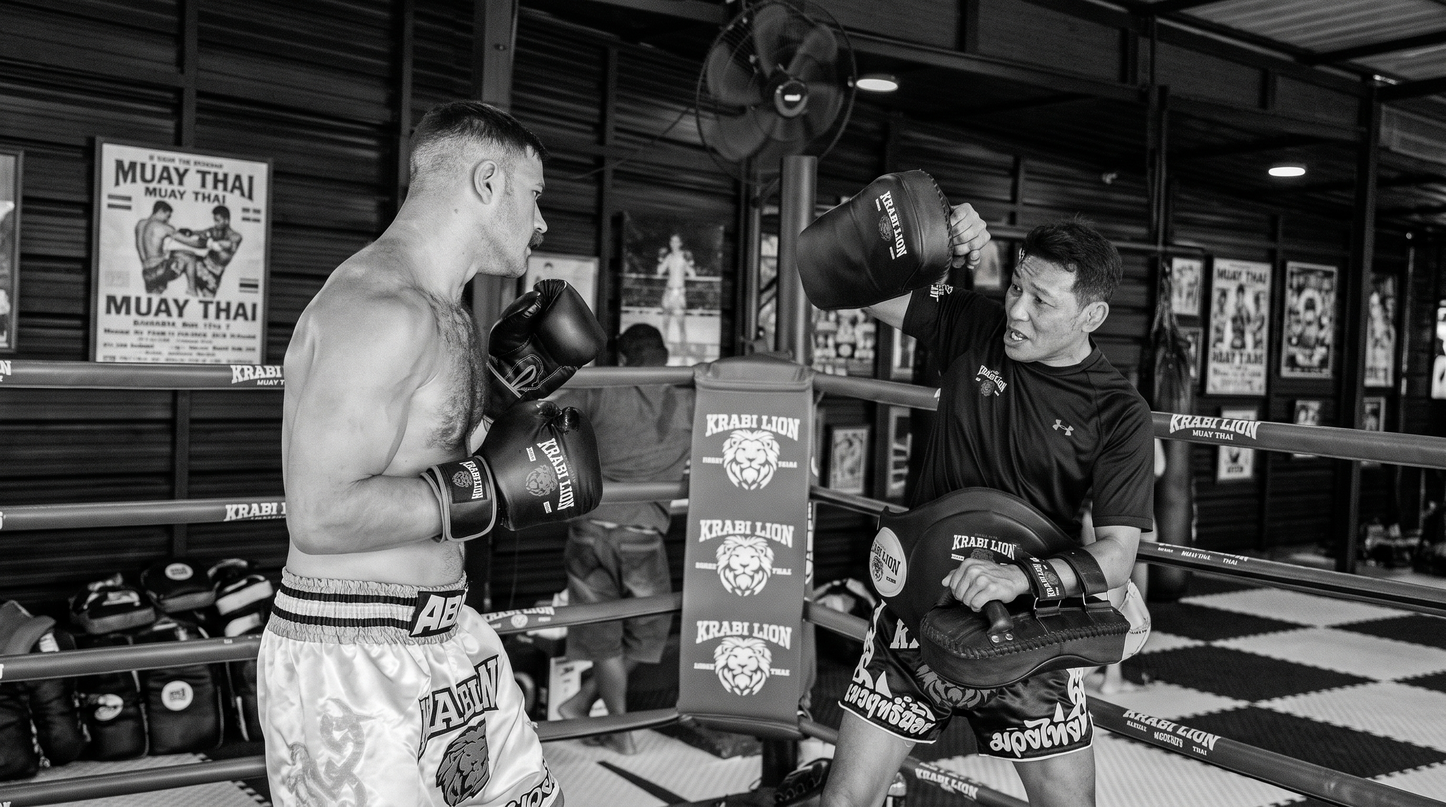
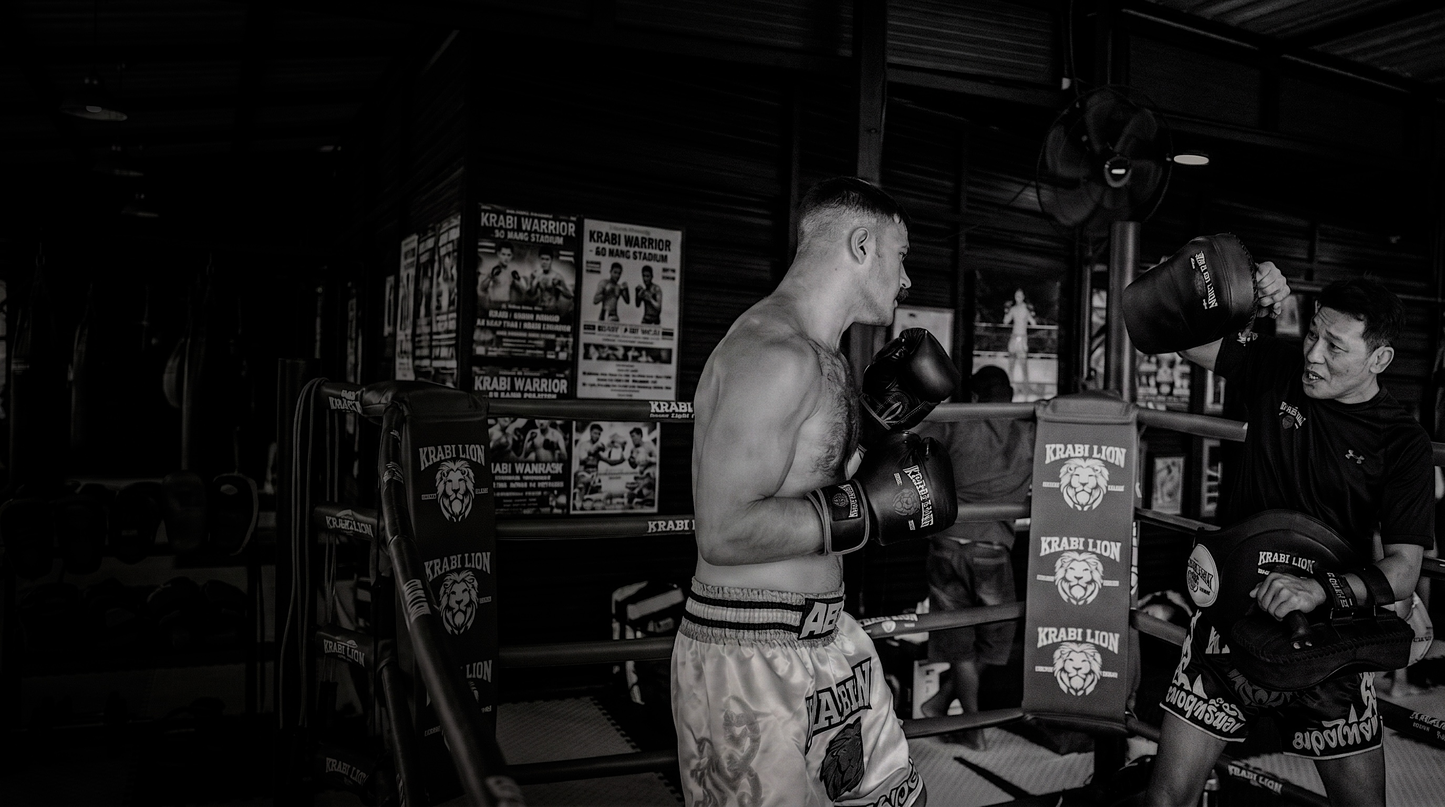
revert: drop hero collage layers; plain hero with Leo's latest edit

diff --git a/index.html b/index.html
@@ -400,29 +400,7 @@ a { color: inherit; }
   isolation: isolate;
 }
 .hero-media { position: absolute; inset: 0; z-index: -2; }
-/* Fenriz-style layered collage: bg photo → red panel → fighter cutout */
-.hero-panel {
-  position: absolute;
-  top: 0;
-  bottom: 0;
-  left: 41%;
-  width: 33%;
-  z-index: 1;
-  background: linear-gradient(168deg, #d96a2b -10%, var(--blood) 55%, var(--rust) 110%);
-  opacity: .78;
-}
-.hero-cutout {
-  position: absolute;
-  inset: 0;
-  z-index: 2;
-}
-.hero-media img, .hero-cutout { width: 100%; height: 100%; object-fit: cover; object-position: 38% 30%; }
-@media (max-width: 560px) {
-  .hero-media img, .hero-cutout { object-position: 52% 30%; }
-  .hero-panel { left: 46%; width: 48%; opacity: .72; }
-  /* red-on-red fails where the headline crosses the panel — go all-white like Fenriz */
-  .poster-type .accent { color: var(--paper); }
-}
+
 .hero-media img { width: 100%; height: 100%; object-fit: cover; object-position: 38% 30%; }
 /* gradient divider strip — the brand's signature bar, in reds */
 .strip {
@@ -1148,8 +1126,6 @@ dialog.lb::backdrop { background: rgba(6, 4, 4, .94); }
 <header class="hero">
   <div class="hero-media">
     <img src="assets/img/hero-champ.webp" alt="Thewaritnoi holds pads for a fighter in the Krabi Lion ring." fetchpriority="high" width="2200" height="1228">
-    <div class="hero-panel" aria-hidden="true"></div>
-    <img class="hero-cutout" src="assets/img/hero-cutout.webp" alt="" aria-hidden="true" width="2200" height="1228">
   </div>
 
   <div class="shell poster">
